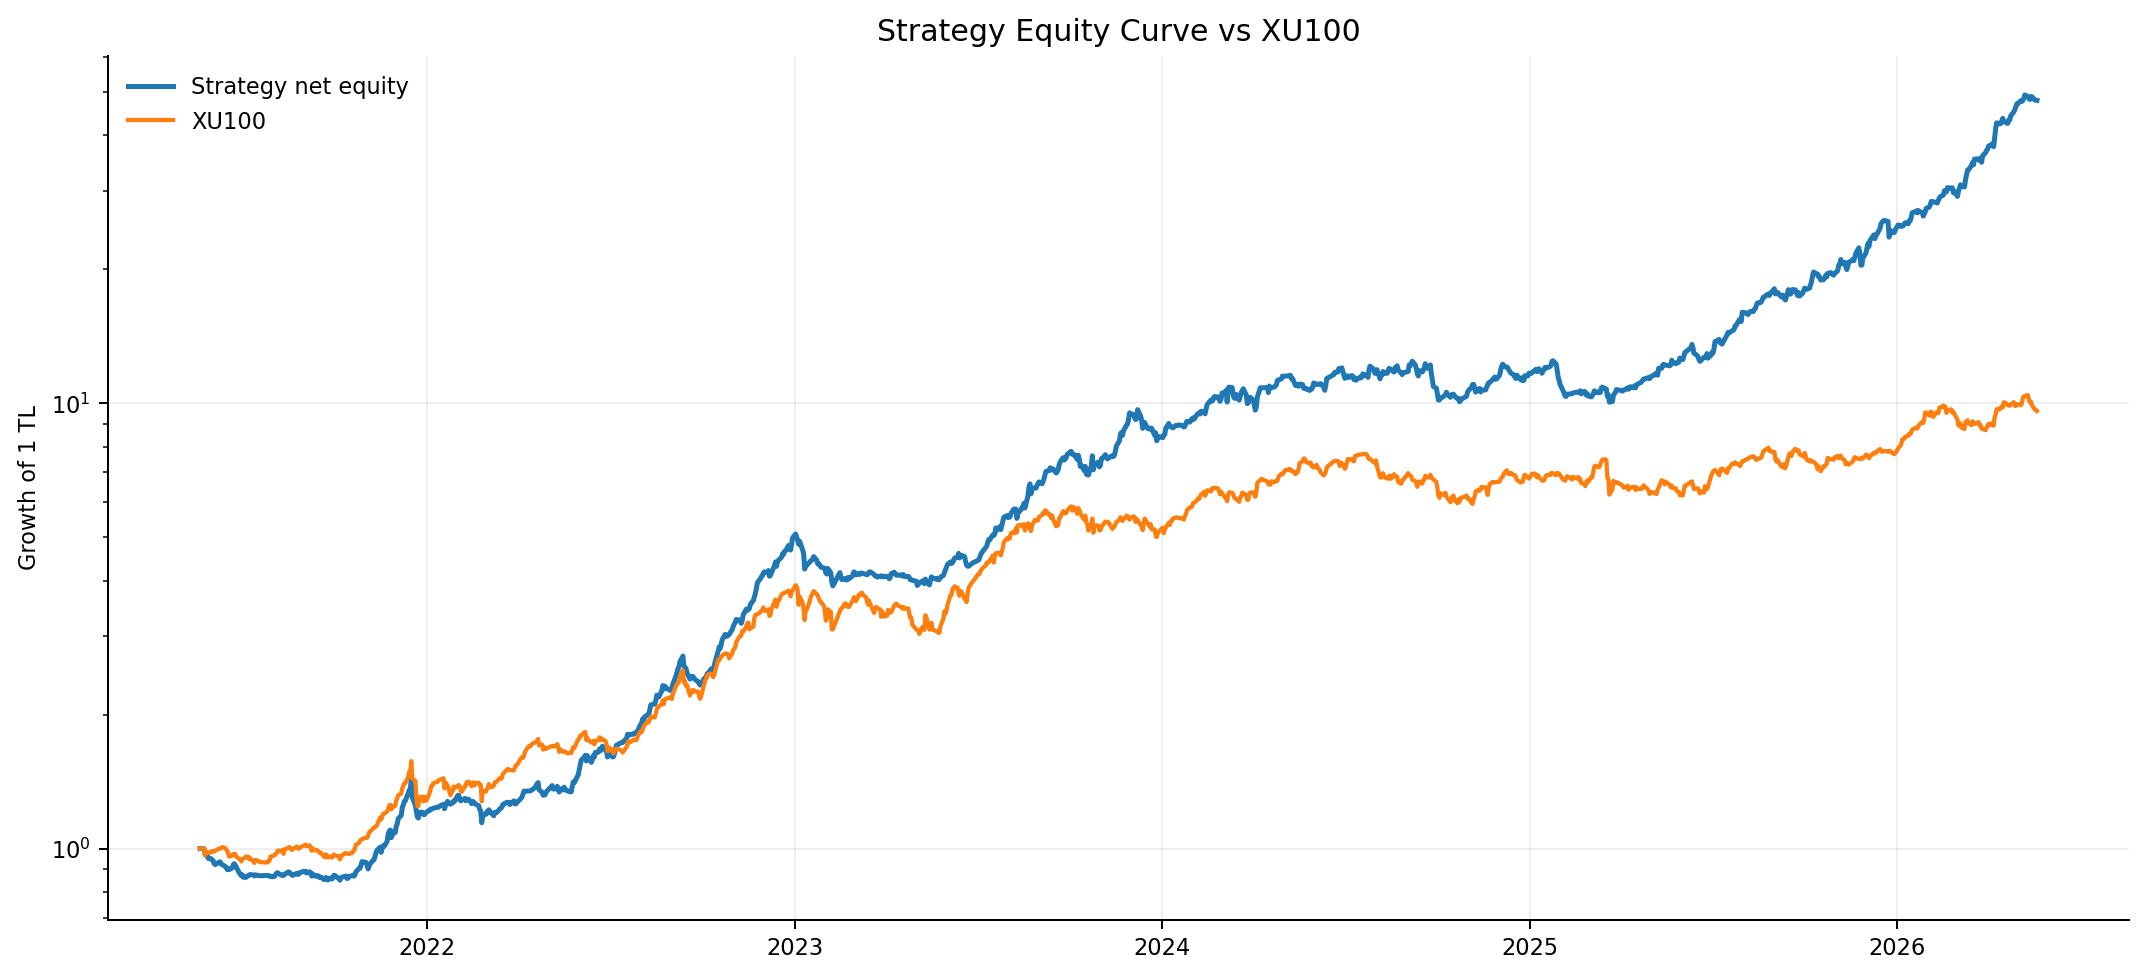
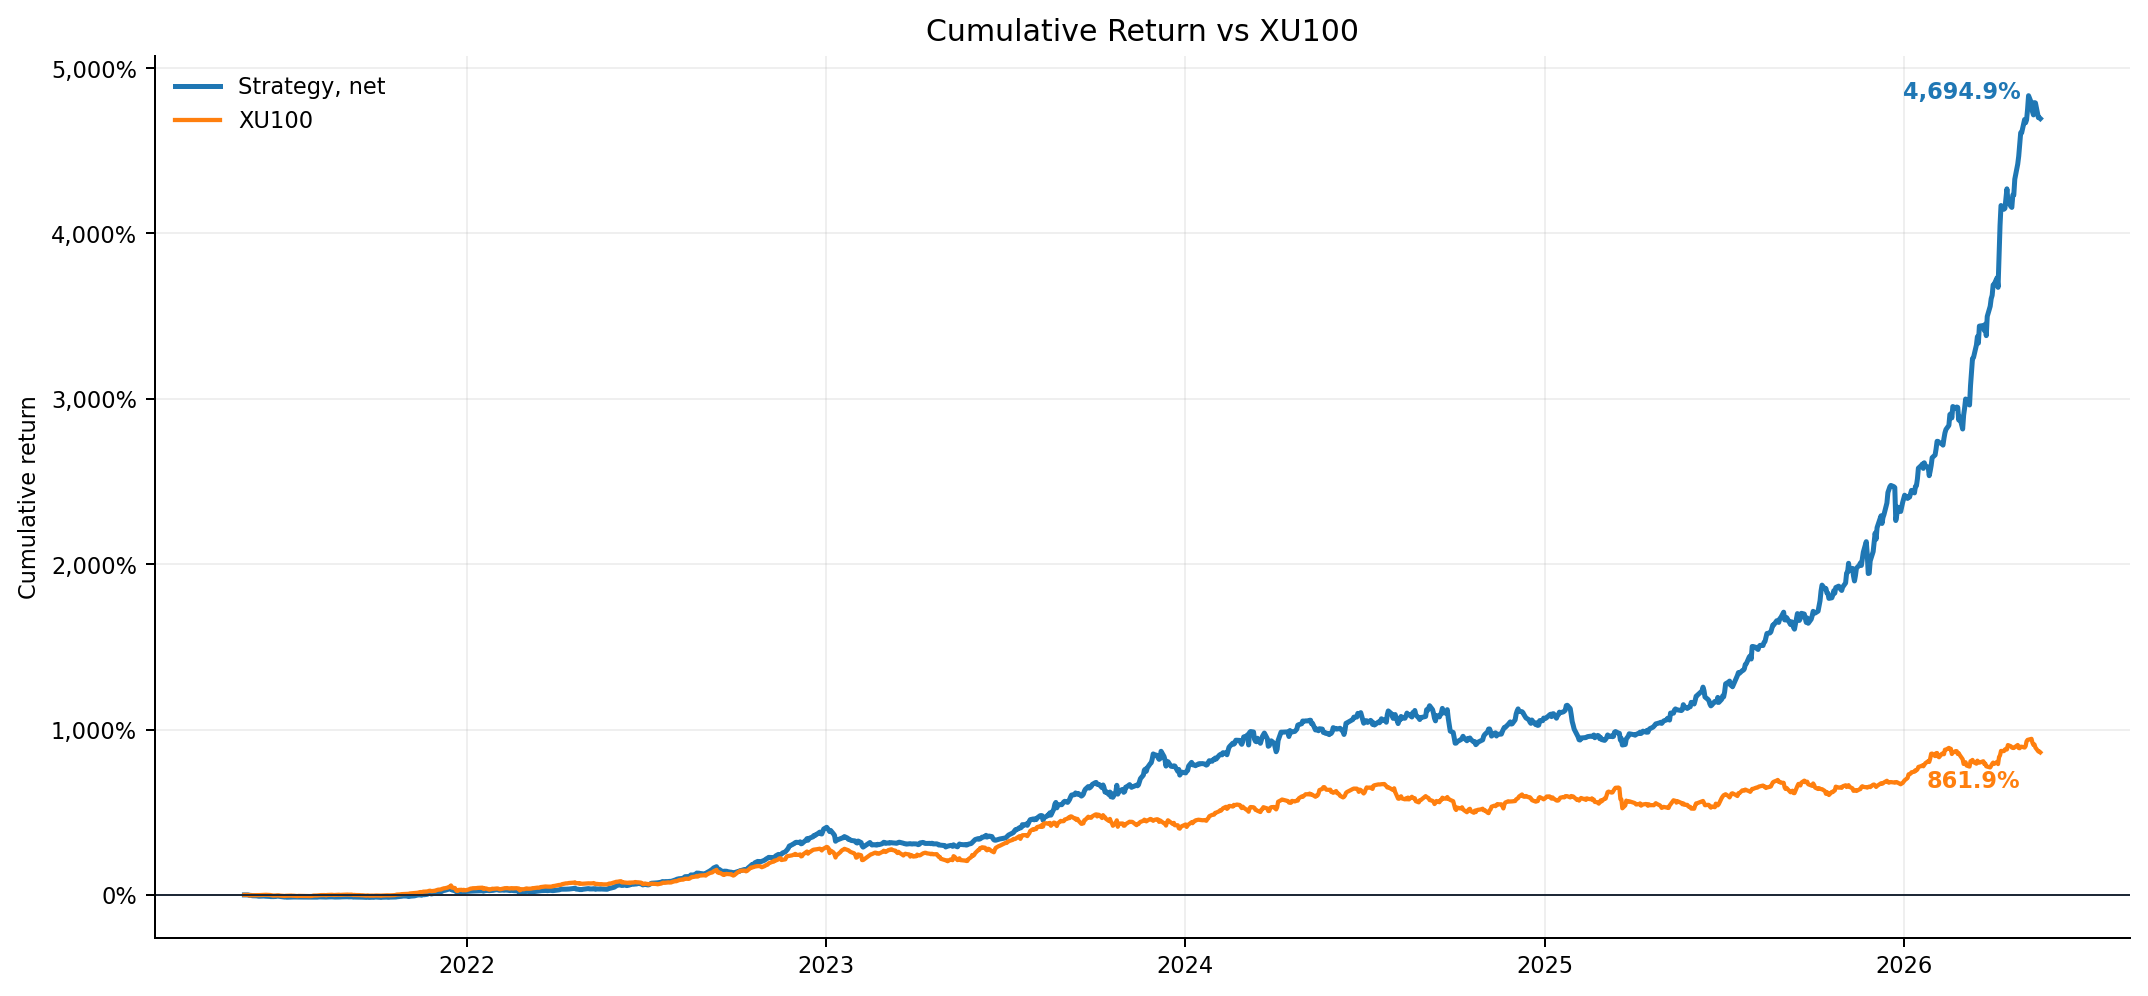
Show cumulative returns as percentages

diff --git a/README.md b/README.md
@@ -23,11 +23,11 @@ These results use a current all-BIST universe snapshot applied backward and ther
 
 No single chart proves a persistent trading edge. The six figures below examine different requirements: economic performance, temporal consistency, cross-sectional predictability, execution-cost survival and parameter robustness.
 
-### 1. Net Equity Curve vs XU100
+### 1. Cumulative Return vs XU100
 
-The logarithmic equity curve compares the net strategy with XU100 after the configured turnover cost and dynamic slippage. The strategy grows `1 TL` to approximately `47.95 TL`, versus `9.62 TL` for XU100. This is the clearest economic summary, but an equity curve alone cannot distinguish genuine alpha from model-selection or universe bias.
+The cumulative-return curve compares the net strategy with XU100 after the configured turnover cost and dynamic slippage. The strategy reaches approximately `+4,694.89%`, versus `+861.93%` for XU100. This is the clearest economic summary, but cumulative return alone cannot distinguish genuine alpha from model-selection or universe bias.
 
-![Net equity curve versus XU100](docs/figures/01_equity_vs_xu100.png)
+![Cumulative return versus XU100](docs/figures/01_equity_vs_xu100.png)
 
 ### 2. Temporal Out-of-Sample Performance
 
